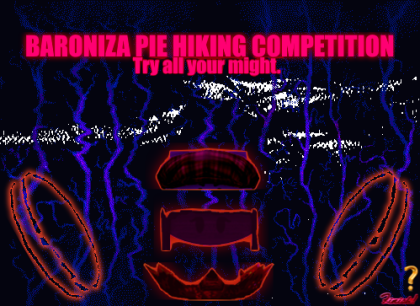
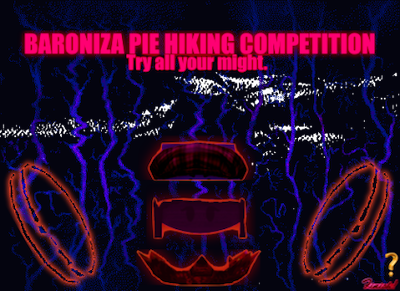
image and box size upd

diff --git a/index.html b/index.html
@@ -32,21 +32,23 @@
 				<!-- Worlds -->
 				<div class="flex-container">
 					<!-- Overworld -->
-					<div style="width: 25%;">
+					<div>
 						<h3 style="text-align: center;">Waking World</h3>
-						<p>
-							Also known as the Overworld, it is widely occupied by human nations.
+						<p style="text-align: center;">
+							Also known as the Overworld,<br>
+							it is widely occupied by human nations.
 						</p>
 						<p>
-							Areas include the Simziel archipelago, New Dievodora, and
+							Areas include Simziel archipelago and
 							<a href="https://dreamsphere.miraheze.org/wiki/Windy_Island">Windy Island</a>.
 						</p>
 					</div>
 					<!-- Dreamsphere -->
-					<div style="width: 25%;">
+					<div>
 						<h3 style="text-align: center;">Dreamsphere</h3>
-						<p>
-							A more unknown section of the world, it contains many mysteries and esoteric treasures.
+						<p style="text-align: center;">
+							A more unknown section of the world,<br>
+							it contains many mysteries and esoteric treasures.
 						</p>
 						<p>
 							See
@@ -95,7 +97,7 @@
 							</p>
 							<div style="text-align: center;">
 								<a href="./pie-hiking/">
-									<img src="./src/assets/pies/apple.png" height="176px">
+									<img src="./src/assets/pies/apple.png" width="176" height="176">
 								</a>
 							</div>
 						</div>

diff --git a/pie-hiking/index.html b/pie-hiking/index.html
@@ -37,7 +37,7 @@
 							<table>
 								<tr>
 									<td> 
-										<img src="../src/assets/pies/ten-mou.png" height="70px">
+										<img src="../src/assets/pies/ten-mou.png" width="70" height="55">
 									</td>
 									<td>
 										<p>
@@ -104,7 +104,7 @@
 						</div>
 						<div style="text-align: center;">
 							<a href="https://www.roblox.com/games/5475056496/">
-								<img src="../src/assets/images/baroniza-pie-hiking.png">
+								<img src="../src/assets/images/baroniza-pie-hiking.png" width="400" height="291">
 							</a>
 							<p style="font-size: small;">
 								Poster image from <a href="https://www.roblox.com/games/5475056496/">Dream Game</a>.
@@ -123,7 +123,7 @@
 						</div>
 						<div style="text-align: center;">
 							<a href="https://www.roblox.com/games/16124983043/">
-								<img src="../src/assets/images/phdt-icon.png" height="300px" style="justify-content: right;">
+								<img src="../src/assets/images/phdt-icon.png" width="400" height="400" style="justify-content: right;">
 							</a>
 							<p style="font-size: small;">
 								Game icon of <a href="https://www.roblox.com/games/16124983043/">Pie Hiking Difficulty Test</a>.

diff --git a/src/scripts/main.js b/src/scripts/main.js
@@ -67,7 +67,7 @@ function initializePiHikerBadges() {
 		// Modify content
 		tableBadgeName.textContent = badge.name;
 		badgeImage.src = badge.image;
-		badgeImage.setAttribute("height", "64px");
+		badgeImage.setAttribute("height", "64");
 
 		// Build row
 		badgeLink.appendChild(badgeImage);
